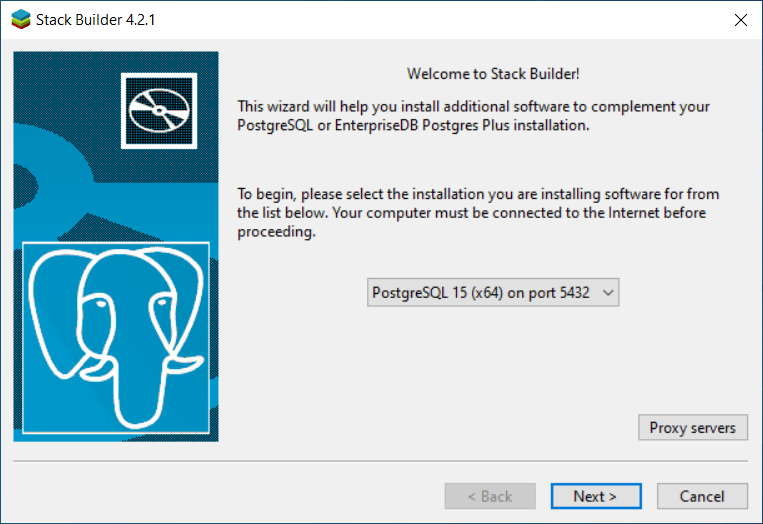
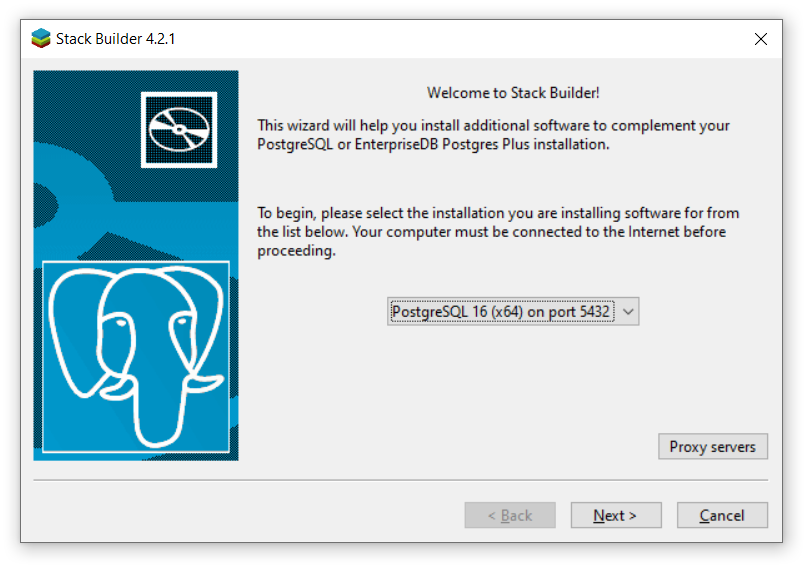
resize some images for clarity and build book

Changed region(s): [[0.0, 0.0, 1.0, 1.0], [0.4522, 0.5191, 0.8139, 0.6107]]

diff --git a/docs/analyze-relational-database.html b/docs/analyze-relational-database.html
@@ -241,12 +241,12 @@ Paul Pickell</p>
 <p><strong>Step 1:</strong> Create a new database called “mypostgisdb” with the following SQL command <code>CREATE DATABASE mypostgisdb;</code>. It is important to always escape SQL statements with a semi-colon otherwise psql will interpret your input as spanning multiple lines! If you forget the semi-colon, you can always just type it in the console and hit “Enter” on your keyboard and psql will interpret this as a two-line statement.</p>
 <p><strong>Step 2:</strong> Connect to your new database by using the psql command <code>\c mypostgisdb</code>. Note that this is NOT an SQL statement, so there is no need to escape the command with a semi-colon. Your console should now say <code>mypostgisdb=#</code>, which indicates you are now connected.</p>
 <p><strong>Step 3:</strong> Currently this is just a plain-vanilla PostgreSQL relational database that cannot handle spatial data. In order to convert this to a PostGIS database, we need to enable the PostGIS extension using the following SQL: <code>CREATE EXTENSION postgis;</code>.</p>
-<p><img src="images/02-psql-create-mypostgisdb.png" width="75%" /></p>
+<p><img src="images/02-psql-create-mypostgisdb.png" width="90%" /></p>
 <p>If the above step fails, then you may need to first install PostGIS. Ordinarily, PostGIS is installed at the same time as PostgreSQL, they come packaged together. To install PostGIS, follow these steps:</p>
 <p><strong>Step 3a:</strong> Search “Stack Builder” from your Windows search bar and run the application.</p>
 <p><img src="images/02-stack-builder-search.png" width="75%" /></p>
 <p><strong>Step 3b:</strong> If prompted, enter your admin credential or ask your instructor to provide this credential for you.</p>
-<p><strong>Step 3c:</strong> Select “PostgreSQL 15 (x64) on port 5432” from the drop down menu (or whatever version of PostgreSQL is installed on your machine). Click “Next”.</p>
+<p><strong>Step 3c:</strong> Select “PostgreSQL 16 (x64) on port 5432” from the drop down menu (or whatever version of PostgreSQL is installed on your machine). Click “Next”.</p>
 <p><img src="images/02-stack-builder-1.png" width="75%" /></p>
 <p><strong>Step 3d:</strong> Expand “Categories”, then expand “Spatial Extensions”, and toggle on the PostGIS software version to install. Click “Next”. The Application Stack Builder will prompt for where you want to download PostGIS, just click “Next” to accept the default location. Then you will be prompted to install it after it downloads. Make sure that “Skip Installation” is toggled off, and continue to click “Next” to accept the defaults, and “Agree” to the end user license agreement.</p>
 <p><strong>Step 3e:</strong> After PostGIS installs successfully, close any psql shell you have open, re-open a new psql shell, and then begin again at Step 2 above.</p>
@@ -267,7 +267,7 @@ colunm-name-3 datatype,
 );</code></pre>
 <p>Data types are very important and the shorthand notation for these in PostgreSQL are <a href="https://www.postgresql.org/docs/current/datatype.html">listed on this web page</a> and some commonly used data types are reproduced below with examples.</p>
 <table>
-<caption><span id="tab:unnamed-chunk-5">Table 2.1: </span>Some PostgreSQL data types with example value ranges.</caption>
+<caption><span id="tab:unnamed-chunk-3">Table 2.1: </span>Some PostgreSQL data types with example value ranges.</caption>
 <colgroup>
 <col width="7%" />
 <col width="56%" />
@@ -339,7 +339,7 @@ this_field_is_int2 int2,
 this_field_is_bool bool,
 this_field_is_varchar_50 varchar(50)
 );</code></pre>
-<p><img src="images/02-psql-mynewtable.png" width="75%" /></p>
+<p><img src="images/02-psql-mynewtable.png" width="90%" /></p>
 <p>Watch out for unescaped parentheses when running multiline SQL statements! If you see <code>mypostgisdb=#</code>, then you are able to submit a new psql command or start an SQL statement. If you see <code>mypostgisdb=-</code>, then you have already started an SQL statement on a line above in the terminal. If you see <code>mypostgisdb=(</code>, then you have added an open parenthesis ‘(’ somewhere in your statement on a line above. When running a SQL statement over multiple lines, you need to ensure that you enclose all parentheses and end the statement with a semicolon <code>;</code> in order to return the psql command line back to <code>mypostgisdb=#</code>. If you find yourself stuck an unable to exit <code>mypostgisdb=(</code>, try to close any open parentheses by typing <code>)</code> and pressing “Enter”. If you find yourself unable to exit <code>mypostgisdb=-</code>, try ending the SQL statement by typing <code>;</code> and pressing “Enter”. If both of those fail, you can try exiting the command with <code>CTRL + C</code>, which may also end psql and require you to reconnect to the database.</p>
 <p>You can experiment with creating as many new tables as you want. If you need to delete a table, use the <code>DROP</code> keyword like this <code>DROP TABLE my_new_table;</code>.</p>
 <p>It is good practice to assign a field (multiple fields) as a primary key when you create a table. This is done by simply adding <code>PRIMARY KEY</code> after the field definition when you make the table. For example:</p>
@@ -359,15 +359,15 @@ PRIMARY KEY(this_field_is_int2, this_field_is_bool)
 <p><strong>Step 7:</strong> Create a new table of assignments that are due next week. Include course code, assignment name, the percent weighting of the assignment on your final grade in that course, and the due date. Use the appropriate data types for each field and define a primary key.</p>
 <p>Now that the table and fields are defined, we will insert some data into the table. Inserting data uses the <code>INSERT</code> keyword followed by <code>VALUES</code> and then a comma-separated list of the values you want to insert in parentheses. For example:</p>
 <pre><code>INSERT INTO my_new_table VALUES (32767, false, &#39;hello world!&#39;);</code></pre>
-<p><img src="images/02-psql-insert.png" width="75%" /></p>
+<p><img src="images/02-psql-insert.png" width="90%" /></p>
 <p>If you want to insert a value for specific fields, then specify the field name(s) after the table name:</p>
 <pre><code>INSERT INTO my_new_table (this_field_is_int2, this_field_is_varchar_50) VALUES (-32768,&#39;hi again!&#39;);</code></pre>
-<p><img src="images/02-psql-insert-2.png" width="75%" /></p>
+<p><img src="images/02-psql-insert-2.png" width="90%" /></p>
 <p>If you make a mistake or need to update a field later, then you use <code>UPDATE</code> and <code>SET</code> to identify the set of fields that should be updated. You can also test for NULL (empty values) using <code>IS NULL</code> or <code>IS NOT NULL</code>:</p>
 <pre><code>UPDATE my_new_table
 SET this_field_is_bool = true, this_field_is_varchar_50 = &#39;whoops!&#39;
 WHERE this_field_is_bool IS NULL;</code></pre>
-<p><img src="images/02-psql-update.PNG" width="75%" /></p>
+<p><img src="images/02-psql-update.PNG" width="90%" /></p>
 <p>Dates require special handling because if you just try to insert them as strings or otherwise, they are treated as literals. For dates, we need to use the special <code>TO_DATE</code> function:</p>
 <pre><code>INSERT INTO my_new_table (this_field_is_date) VALUES (TO_DATE(&#39;31-12-1963&#39;, &#39;DD-MM-YYYY&#39;));</code></pre>
 <p><strong>Step 8:</strong> Now fill in your table of assignments by inserting and/or updating the values as needed.</p>
@@ -395,7 +395,7 @@ WHERE this_field_is_bool IS NULL;</code></pre>
 <p><strong>Step 6:</strong> Check that the FSC polygon was successfully added to your PostGIS database with the following command:</p>
 <pre><code>ogrinfo PG:&quot;host=localhost user=postgres dbname=mypostgisdb password=YOUR_LOCALHOST_PASSWORD&quot; &quot;ubcv_FSC&quot; -so</code></pre>
 <p>The screenshot below is a small snippet of what is returned in the OSGeo4W terminal window. As you can see, we have access to the feature count, spatial extent, Spatial Reference System (SRS), and even all the field names and data types if you scroll farther down. The <code>-so</code> flag gives us this “summary output”.</p>
-<p><img src="images/02-ogrinfo-fsc.png" width="75%" /></p>
+<p><img src="images/02-ogrinfo-fsc.png" width="90%" /></p>
 <p><strong>Step 7:</strong> Repeat this process to import the ubcv_campus_trees.shp you created in Step 3 to your localhost PostGIS database.</p>
 <hr />
 </div>
@@ -416,7 +416,7 @@ WHERE this_field_is_bool IS NULL;</code></pre>
 <p><strong>Step 5:</strong> Now we will do a simple SQL query to determine the species that are planted around the Forest Sciences Building:</p>
 <pre><code>SELECT taxa, COUNT(*) AS frequency FROM ubcv_fsc_trees GROUP BY taxa ORDER BY COUNT(*) DESC;</code></pre>
 <p>This will return the “taxa” column and create a new column called “frequency” that contains values of the <code>COUNT()</code> function. The <code>GROUP BY</code> statement is needed when we use an aggregation method like <code>COUNT()</code>. Finally, the relation is ordered by the aggregation result in descending <code>DESC</code> order.</p>
-<p><img src="images/02-psql-final-analysis.png" width="75%" /></p>
+<p><img src="images/02-psql-final-analysis.png" width="90%" /></p>
 <p><strong>Step 6:</strong> Modify the statement above to sort the taxa alphabetically.</p>
 <p>These last few steps are just to illustrate that you can run the same SQL statements above directly in QGIS.</p>
 <p><strong>Step 7:</strong> Open QGIS. From the top menu toolbar, select <strong>Database</strong> then <strong>DB Manager…</strong> This will open a new window where you can do basically everything you did in this task and the prior task. You can import/export data to whatever format you want, inspect the database, tables, and even preview the spatial features.</p>

diff --git a/docs/introduction-postgresql-postgis.html b/docs/introduction-postgresql-postgis.html
@@ -372,20 +372,6 @@ gitbook.start({
 });
 </script>
 
-<!-- dynamically load mathjax for compatibility with self-contained -->
-<script>
-  (function () {
-    var script = document.createElement("script");
-    script.type = "text/javascript";
-    var src = "true";
-    if (src === "" || src === "true") src = "https://cdnjs.cloudflare.com/ajax/libs/mathjax/2.7.9/latest.js?config=TeX-MML-AM_CHTML";
-    if (location.protocol !== "file:")
-      if (/^https?:/.test(src))
-        src = src.replace(/^https?:/, '');
-    script.src = src;
-    document.getElementsByTagName("head")[0].appendChild(script);
-  })();
-</script>
 </body>
 
 </html>
